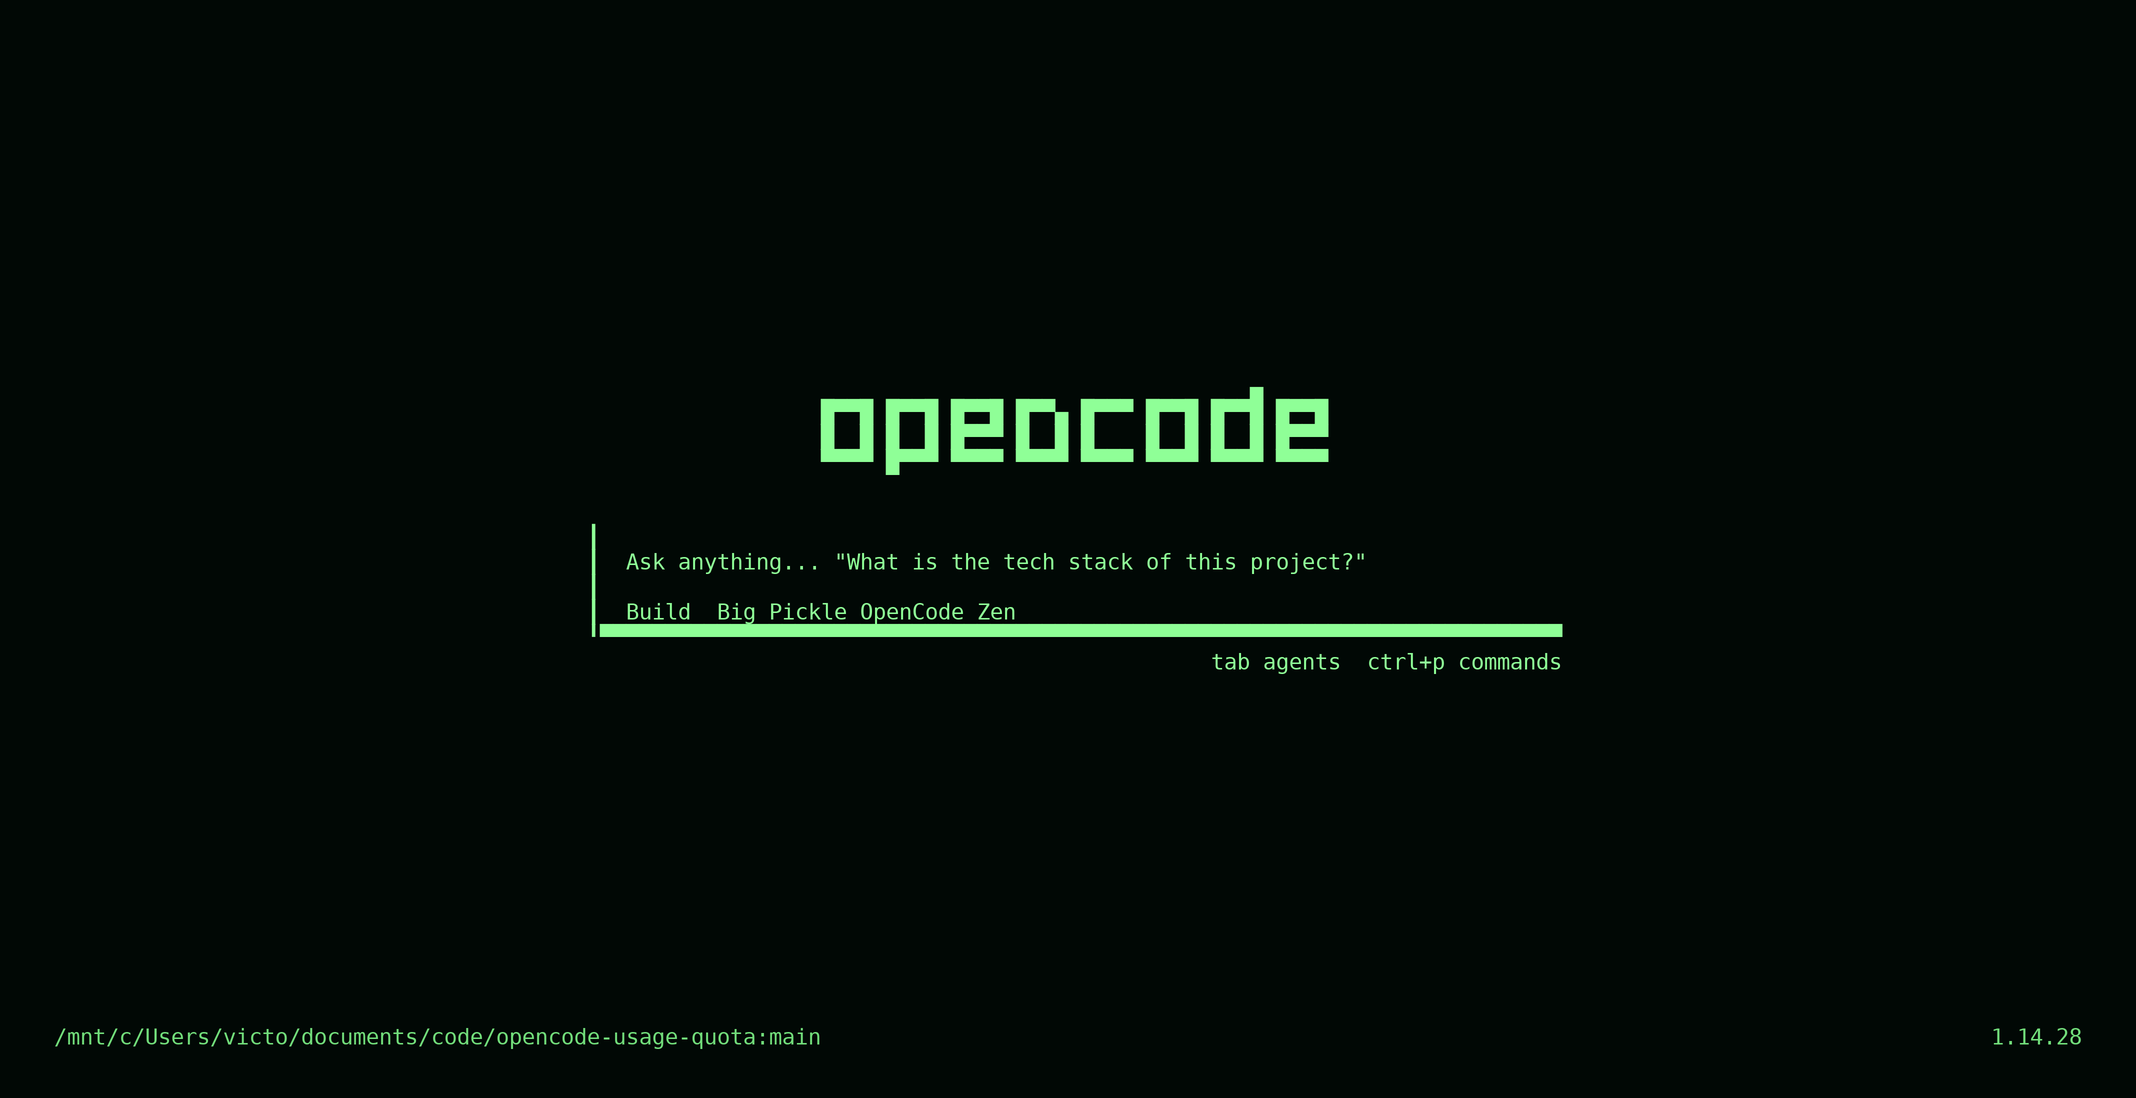
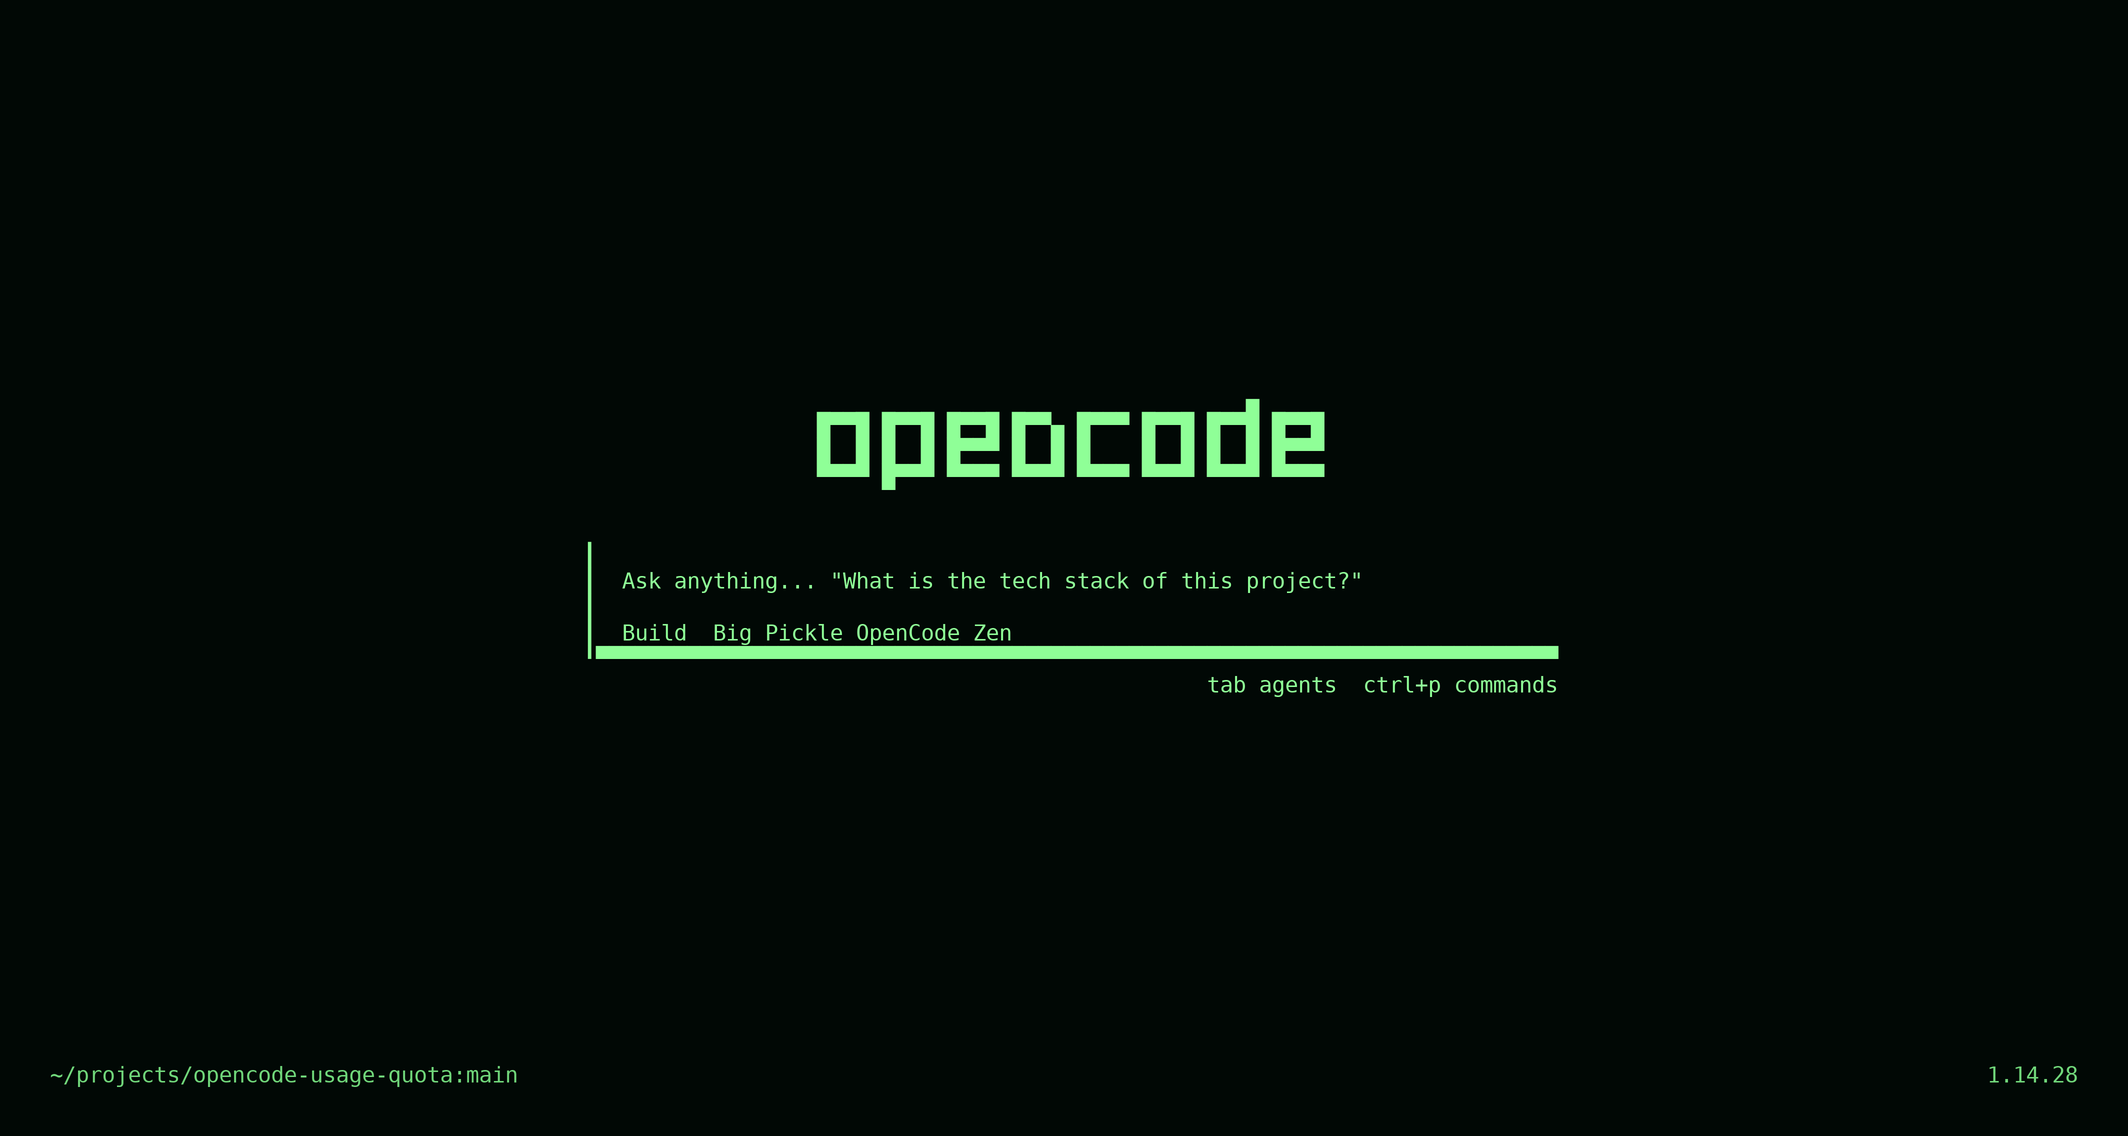
Redact screenshot artifact paths

diff --git a/qa/metadata.md b/qa/metadata.md
@@ -3,13 +3,13 @@
 ## Environment
 
 - Date: 2026-04-28
-- OpenCode binary: `/mnt/c/Users/victo/documents/code/opencode/packages/opencode/dist/opencode-linux-x64/bin/opencode`
+- OpenCode binary: `<opencode>/packages/opencode/dist/opencode-linux-x64/bin/opencode`
 - OpenCode version shown in both captures: `1.14.28`
-- Working directory: `/mnt/c/Users/victo/documents/code/opencode-usage-quota`
+- Working directory: `~/projects/opencode-usage-quota`
 - tmux geometry: `160x42`
-- Baseline config: `/mnt/c/Users/victo/documents/code/opencode-usage-quota/qa/tui.before.json`
-- Plugin config: `/mnt/c/Users/victo/documents/code/opencode-usage-quota/qa/tui.after.json`
-- Plugin path loaded by after config: `/mnt/c/Users/victo/documents/code/opencode-usage-quota/src/tui.tsx`
+- Baseline config: `<repo>/qa/tui.before.json`
+- Plugin config: `<repo>/qa/tui.after.json`
+- Plugin path loaded by after config: `<repo>/src/tui.tsx`
 
 ## Isolation knobs
 
@@ -52,7 +52,7 @@ Baseline relevant lines:
 ```text
 ┃  Build  Big Pickle OpenCode Zen
 tab agents  ctrl+p commands
-/mnt/c/Users/victo/documents/code/opencode-usage-quota:main                                                                                          1.14.28
+~/projects/opencode-usage-quota:main                                                                                                                 1.14.28
 ```
 
 Plugin relevant lines:
@@ -60,7 +60,7 @@ Plugin relevant lines:
 ```text
 ┃  Build  Big Pickle OpenCode Zen                       quota unavailable
 tab agents  ctrl+p commands
-/mnt/c/Users/victo/documents/code/opencode-usage-quota:main                                                                                          1.14.28
+~/projects/opencode-usage-quota:main                                                                                                                 1.14.28
 ```
 
 The after-only `quota unavailable` text is expected in this isolated run because the disposable XDG/OpenCode state does not include OpenAI/Codex OAuth credentials or assistant-token history. It proves the plugin loaded and rendered its safe fallback state.
@@ -70,8 +70,8 @@ The after-only `quota unavailable` text is expected in this isolated run because
 After log proof:
 
 ```text
-INFO service=tui.plugin path=file:///mnt/c/Users/victo/documents/code/opencode-usage-quota/src/tui.tsx retry=false loading tui plugin
-INFO service=tui.plugin path=file:///mnt/c/Users/victo/documents/code/opencode-usage-quota/src/tui.tsx retry=false state=first source=file ... tui plugin metadata updated
+INFO service=tui.plugin path=file://<repo>/src/tui.tsx retry=false loading tui plugin
+INFO service=tui.plugin path=file://<repo>/src/tui.tsx retry=false state=first source=file ... tui plugin metadata updated
 INFO service=server method=GET path=/experimental/console/codex-quota request
 INFO service=server status=completed ... path=/experimental/console/codex-quota request
 ```

diff --git a/qa/README.md b/qa/README.md
@@ -5,7 +5,7 @@ This directory stores isolated before/after OpenCode TUI captures for `opencode-
 - `tui.before.json` — empty TUI config baseline.
 - `tui.after.json` — TUI config that loads the local plugin source file.
 - `before.txt` / `after.txt` — plain tmux pane captures.
-- `before.png` / `after.png` — generated terminal screenshots from the pane captures.
+- `before.png` / `opencode-pr-24826-after.png` / `opencode-pr-24826-session.png` — generated terminal screenshots from sanitized pane captures.
 - `metadata.md` — exact commands, environment, and observations.
 
-The committed screenshots are SVG terminal captures because this environment had no native PNG conversion tool or Python PIL package available.
+The PR screenshots are PNG terminal captures rendered from sanitized text sources. Local filesystem paths and personal email addresses are redacted from public artifacts.
